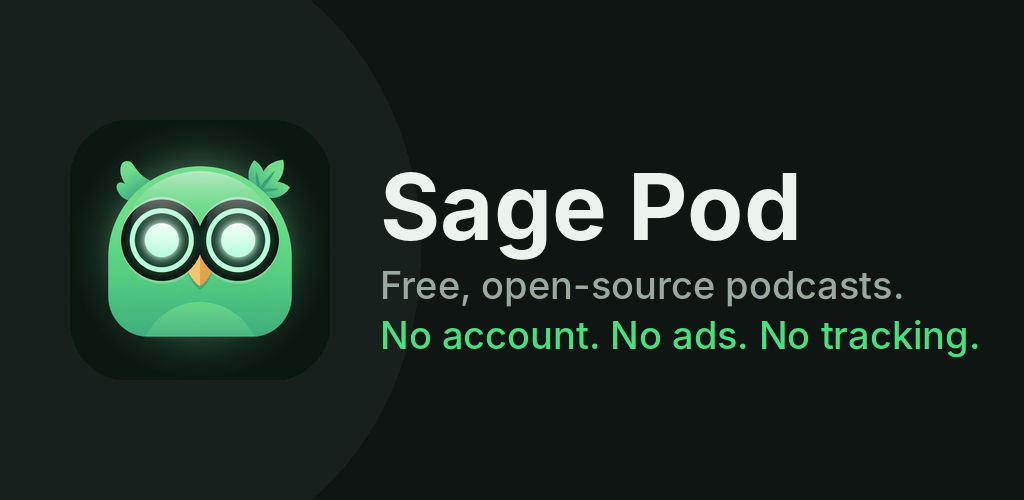
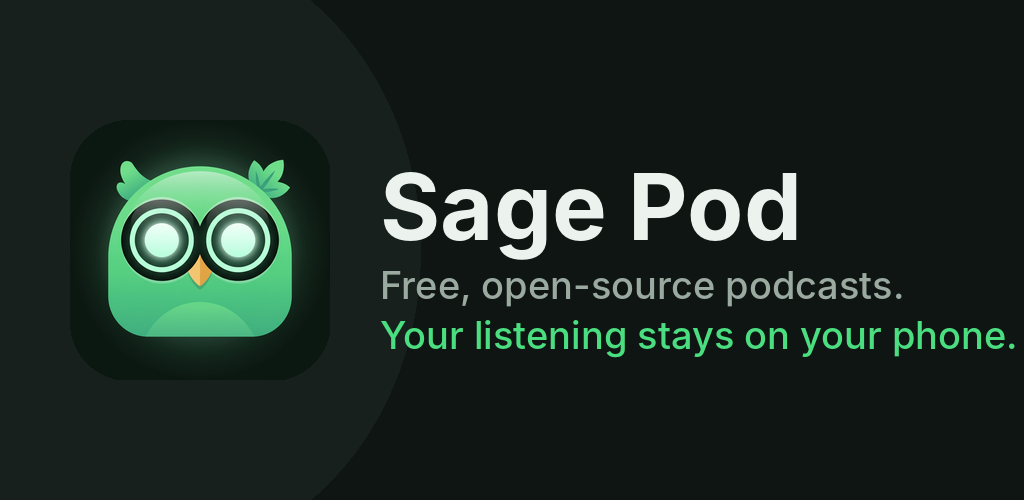
docs: say what Sage Pod keeps on your phone instead of listing what it lacks
The Play short description, the feature graphic and the README tagline replace the 'No account. No ads. No tracking.' list with the positive fact, per the copywriting review.

Claude-Session: https://claude.ai/code/session_01LFBD1eYphQAmbHzWQyUSoz

Changed region(s): [[0.375, 0.63, 1.0, 0.72]]

diff --git a/tool/store_assets.py b/tool/store_assets.py
@@ -91,8 +91,16 @@ def feature_graphic() -> None:
     x = 380
     draw.text((x, 150), "Sage Pod", font=font(92), fill=TEXT)
     draw.text((x, 262), "Free, open-source podcasts.", font=font(38, "Medium"), fill=MUTED)
-    draw.text((x, 312), "No account. No ads. No tracking.", font=font(38, "Medium"), fill=ACCENT)
+    draw.text((x, 312), "Your listening stays on your phone.", font=font(38, "Medium"), fill=ACCENT)
     img.save(OUT / "featureGraphic.png", optimize=True)
+
+
+def og_image() -> None:
+    """1200 x 630 link preview for the website, from the feature graphic."""
+    graphic = Image.open(OUT / "featureGraphic.png").convert("RGB")
+    canvas = Image.new("RGB", (1200, 630), BG)
+    canvas.paste(graphic.resize((1200, 586), Image.LANCZOS), (0, 22))
+    canvas.save(ROOT / "website" / "img" / "og.png", optimize=True)
 
 
 def main() -> None:
@@ -101,6 +109,7 @@ def main() -> None:
     feature_graphic()
     screenshots(PHONE, "phone", "phoneScreenshots")
     screenshots(TABLET, "tablet-land", "tenInchScreenshots")
+    og_image()
     print(f"wrote {OUT.relative_to(ROOT)}")
 
 

diff --git a/README.md b/README.md
@@ -4,7 +4,7 @@
 
 # Sage Pod
 
-**A local-first podcast player for iOS & Android — built with React Native and Expo.**
+**A podcast player that keeps your listening on your phone. Built with React Native and Expo.**
 
 [![Expo SDK](https://img.shields.io/badge/Expo_SDK-57-000020?logo=expo&logoColor=white)](https://expo.dev)
 [![React Native](https://img.shields.io/badge/React_Native-0.86-61DAFB?logo=react&logoColor=black)](https://reactnative.dev)
